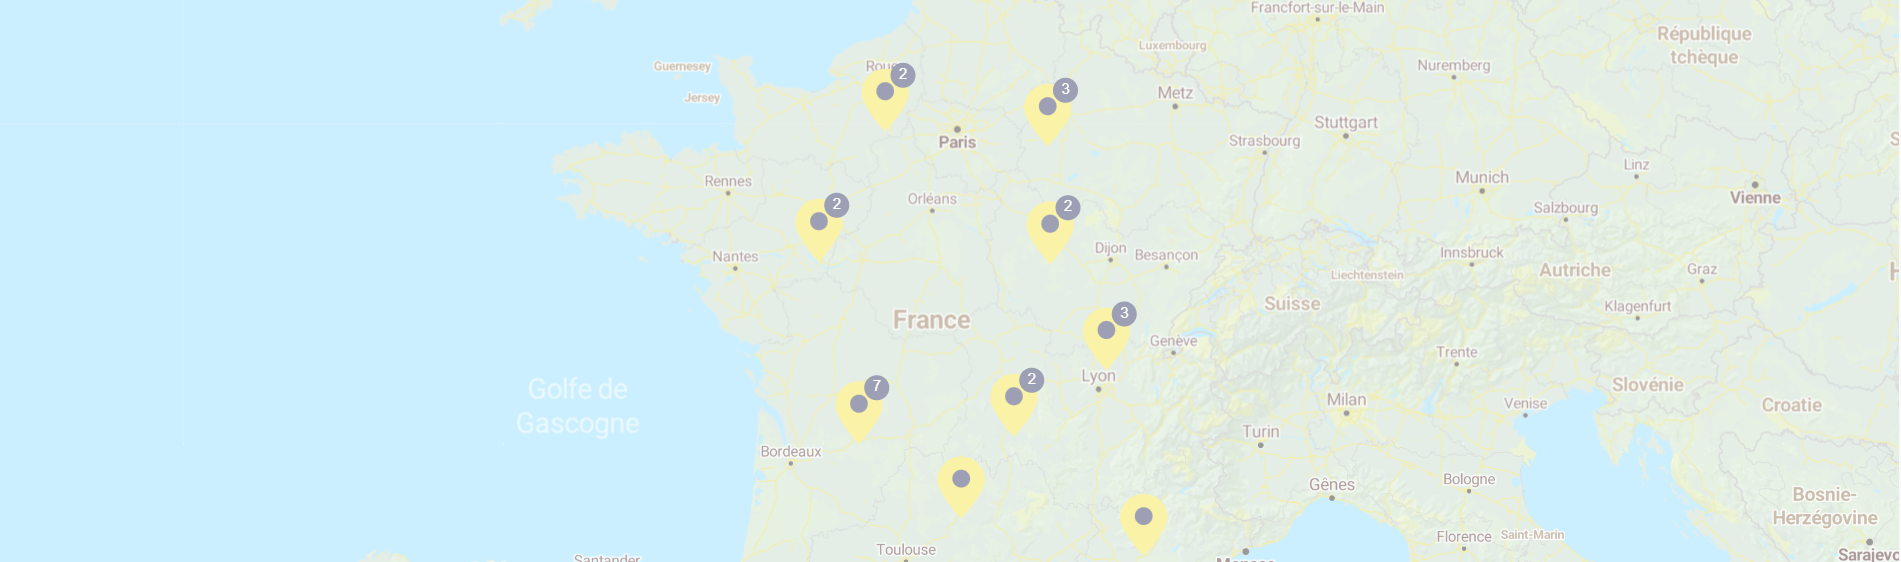
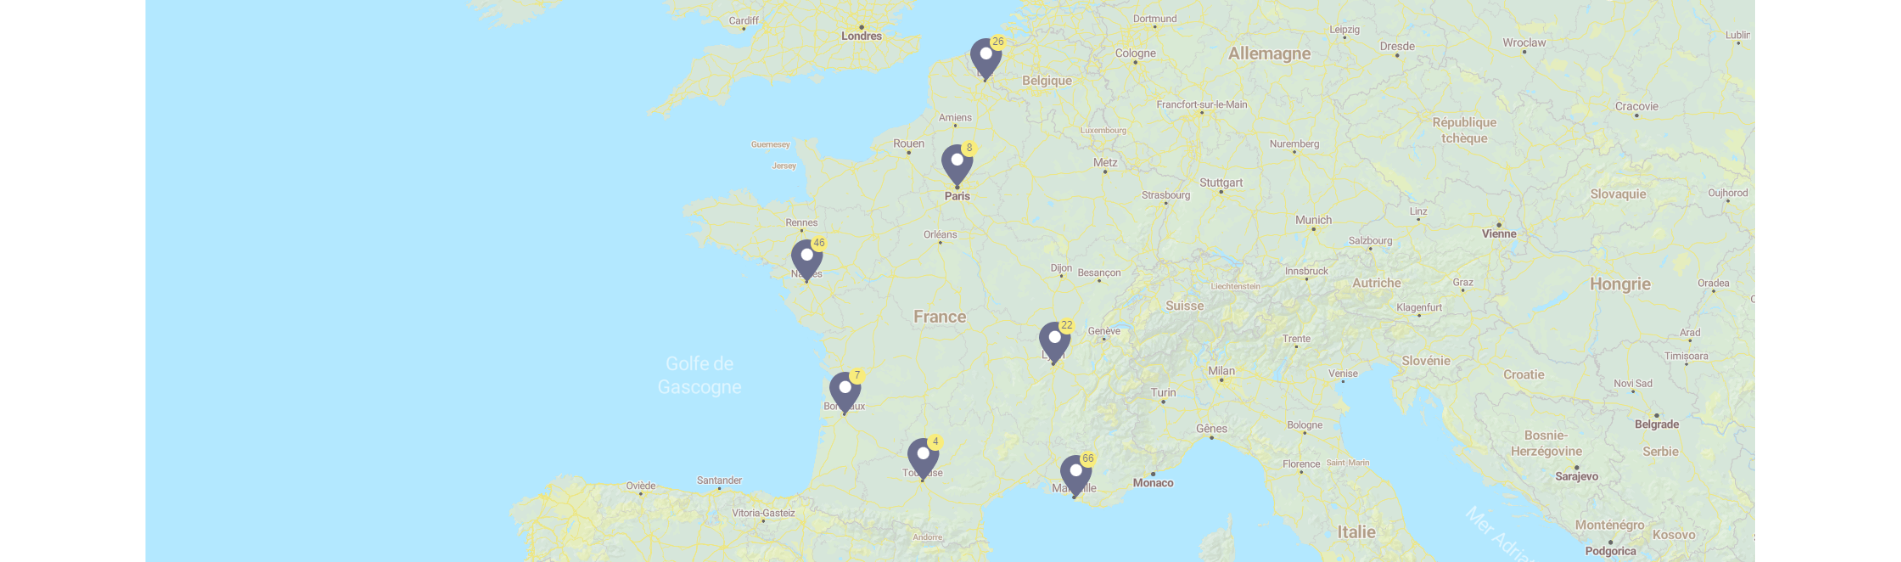
commit before presentation

diff --git a/frontend/src/pages/PoiListView/poiListView.module.scss b/frontend/src/pages/PoiListView/poiListView.module.scss
@@ -2,45 +2,46 @@
 @import "../../style/mixin";
 
 .container {
-    background-color: $cream-color;
-    padding: 50px 0px;
+  background-color: $cream-color;
+  padding: 50px 0px;
 
-    .categories {
-        border-bottom: 1px solid $primary-color;
-        border-top: 1px solid $primary-color;
-        padding: 0 auto;
+  .categories {
+    border-bottom: 1px solid $primary-color;
+    border-top: 1px solid $primary-color;
+    padding: 0 auto;
+    padding-bottom: 3rem;
+  }
+
+  .header {
+    width: 80%;
+    margin: 0 auto;
+    display: flex;
+    flex-direction: column;
+    gap: 20px;
+    margin-bottom: 50px;
+  }
+
+  .previousButton {
+    @include unbuttonize;
+    @include buttonSize(auto, 40px, 0 18px);
+    @include buttonColor($secondary_color, $primary_color);
+    display: flex;
+    justify-content: center;
+    align-items: center;
+    font-family: $poppinsFont;
+    font-weight: 600;
+    cursor: pointer;
+
+    .arrow {
+      margin-right: 7px;
     }
+  }
 
-    .header {
-        width: 80%;
-        margin: 0 auto;
-        display: flex;
-        flex-direction: column;
-        gap: 20px;
-        margin-bottom: 50px;
-    }
-
-    .previousButton {
-        @include unbuttonize;
-        @include buttonSize(auto, 40px, 0 18px);
-        @include buttonColor($secondary_color, $primary_color);
-        display: flex;
-        justify-content: center;
-        align-items: center;
-        font-family: $poppinsFont;
-        font-weight: 600;
-        cursor: pointer;
-
-        .arrow {
-            margin-right: 7px;
-        }
-    }
-
-    h1 {
-        text-align: center;
-        color: $primary-color;
-        font-size: 48px;
-        font-weight: 500;
-        margin: 0;
-    }
+  h1 {
+    text-align: center;
+    color: $primary-color;
+    font-size: 48px;
+    font-weight: 500;
+    margin: 0;
+  }
 }

diff --git a/frontend/src/backOffice/pages/administrator/Categories/Categories.tsx b/frontend/src/backOffice/pages/administrator/Categories/Categories.tsx
@@ -133,7 +133,17 @@ const Categories = () => {
                 <tr key={category.id}>
                   <td className={`fieldTableBody`}>{category.name}</td>
                   <td className={`${styles.fieldImage} fieldTableBody`}>
-                    {category.image}
+                    <img
+                      src={
+                        category.image.includes("http")
+                          ? category.image
+                          : `${
+                              process.env.REACT_APP_PUBLIC_BACKEND_URL
+                            }${category?.image?.slice(1)}`
+                      }
+                      alt="category"
+                      width={100}
+                    />
                   </td>
                   <td className={styles.titleTable}>
                     <Button

diff --git a/frontend/src/backOffice/pages/cityadministrator/Poi/PoiCityAdmin.tsx b/frontend/src/backOffice/pages/cityadministrator/Poi/PoiCityAdmin.tsx
@@ -189,7 +189,17 @@ const PoiCityAdmin = () => {
                     {poi.phoneNumber}
                   </td>
                   <td className={`${styles.fieldImage} fieldTableBody`}>
-                    {poi.image}
+                    <img
+                      src={
+                        poi.image.includes("http")
+                          ? poi.image
+                          : `${
+                              process.env.REACT_APP_PUBLIC_BACKEND_URL
+                            }${poi.image.slice(1)}`
+                      }
+                      alt="category"
+                      width={100}
+                    />
                   </td>
                   <td className={`${styles.fieldImage} fieldTableBody`}>
                     <FontAwesomeIcon

diff --git a/frontend/src/backOffice/pages/administrator/Cities/Cities.tsx b/frontend/src/backOffice/pages/administrator/Cities/Cities.tsx
@@ -143,7 +143,17 @@ const Cities = () => {
                   </div>
                 </td>
                 <td className={`${styles.fieldImage} fieldTableBody`}>
-                  {city.image}
+                  <img
+                    src={
+                      city.image.includes("http")
+                        ? city.image
+                        : `${
+                            process.env.REACT_APP_PUBLIC_BACKEND_URL
+                          }${city?.image?.slice(1)}`
+                    }
+                    alt="category"
+                    width={100}
+                  />
                 </td>
                 <td className={`fieldTableBody`}>
                   {city.userAdminCity?.username}

diff --git a/frontend/src/pages/SearchPOI/SearchPOI.module.scss b/frontend/src/pages/SearchPOI/SearchPOI.module.scss
@@ -7,7 +7,7 @@
 .titleSearchPOI {
   text-align: center;
   margin: 0 auto;
-  border-bottom: 1px solid v.$primary_color;
+  padding-bottom: 3rem;
 
   .subtitlePOI {
     padding-top: 40px;
@@ -21,7 +21,9 @@
   width: 100%;
   margin: 0 auto;
   text-align: center;
-  padding-bottom: 40px;
+  &:last-child {
+    padding-bottom: 40px;
+  }
 }
 .subtitleCity {
   text-align: left;
@@ -74,8 +76,7 @@
   width: 100%;
   height: 50vh;
   background-repeat: no-repeat;
-  background-size: cover;
-  background-position-y: 50%;
+  background-position: 50%;
   display: flex;
   justify-content: center;
   align-items: center;

diff --git a/frontend/src/pages/HomePage/homePage.module.scss b/frontend/src/pages/HomePage/homePage.module.scss
@@ -19,6 +19,9 @@
   margin-left: 5rem;
   @include m.flexLayout(space-around, flex-start);
   flex-direction: column;
+  & > p {
+    text-shadow: 0 0 3px v.$primary_color;
+  }
 }
 
 .presentationButton {
@@ -51,7 +54,6 @@
     @include m.flexLayout(normal, center);
     flex-direction: column;
     width: 100%;
-    border-bottom: 1px solid v.$primary_color;
     padding-bottom: 5rem;
   }
 }

diff --git a/frontend/src/components/interactiveMap/searchBar/searchBar.scss b/frontend/src/components/interactiveMap/searchBar/searchBar.scss
@@ -43,11 +43,14 @@
     }
 
     .results.active {
-      width: 40vw;
+      width: 28vw;
       margin: 0 auto;
       background-color: white;
       padding: 0 2em;
       text-align: initial;
+      border-bottom-left-radius: 0.5em;
+      border-bottom-right-radius: 0.5em;
+      font-family: v.$comicNeueFont;
 
       div[data-key="0"] {
         margin: 0.5em 0;

diff --git a/backend/src/seeder/MainSeeder.ts b/backend/src/seeder/MainSeeder.ts
@@ -46,7 +46,7 @@ export default class MainSeeder implements Seeder {
     // POI
     const poiFactory = factoryManager.get(Poi);
     const pois = await Promise.all(
-      Array(50)
+      Array(100)
         .fill("")
         .map(async () => {
           const made = await poiFactory.make({

diff --git a/frontend/src/components/interactiveMap/InteractiveMap.tsx b/frontend/src/components/interactiveMap/InteractiveMap.tsx
@@ -60,6 +60,7 @@ const InteractiveMap = () => {
       className: `${style.counter}`,
       iconSize: L.point(33, 33, true),
       iconUrl: icon,
+      iconAnchor: [18, 50],
     });
   };
   return (

diff --git a/frontend/src/style/_desktop.scss b/frontend/src/style/_desktop.scss
@@ -98,7 +98,6 @@
   a {
     color: v.$primary-color;
   }
-  margin-bottom: 50px;
 }
 
 .titleFooter {
